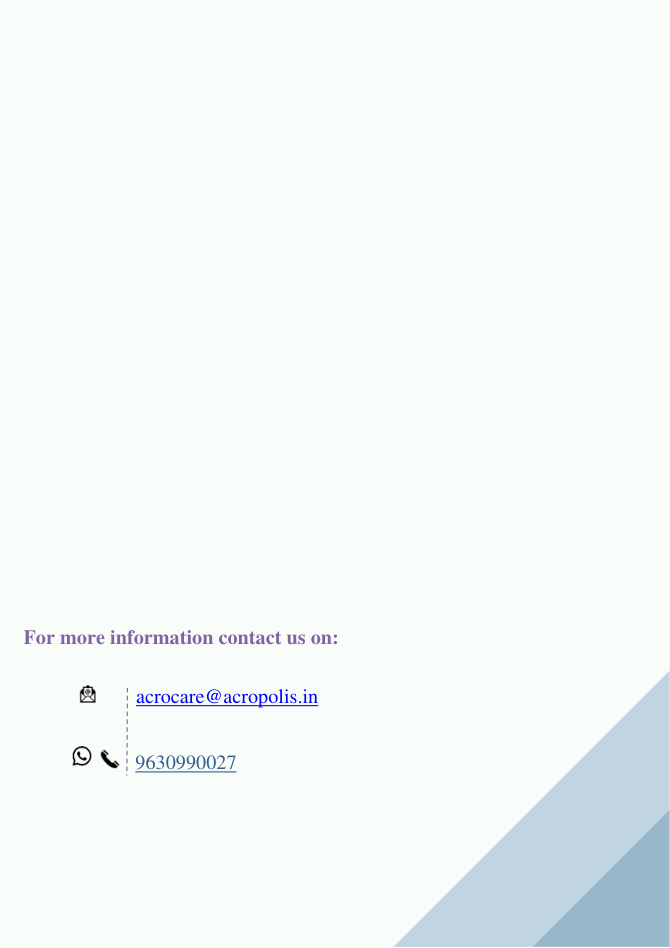
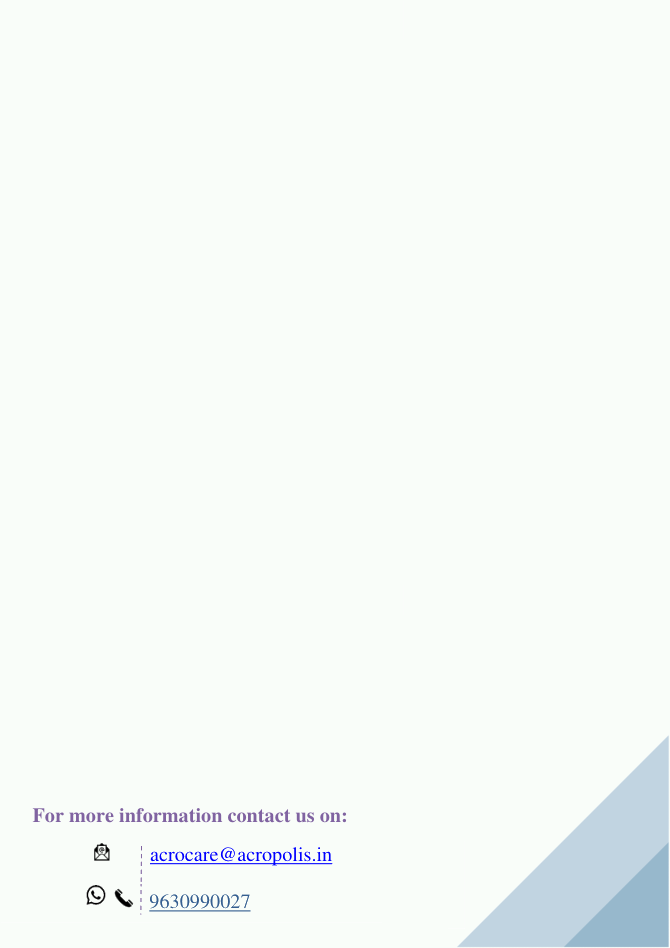
Update pdf layout to fit more recommendations in a page

diff --git a/reportutility.py b/reportutility.py
@@ -297,11 +297,17 @@ def Create_All_Reports(dirpath: str, tscoreslist: list, data: list,
                 pdfile.image(f'{__GRAPHS_DIR}/{graphs[stu]}', 18, 128, h=120)
             # Page 5
             elif i == 5:
+                BREAK_POINT = 220 #245 #165
+                # Y_START     = 25 
+                Y_START     = 35
+                LINK_Y_POS  = BREAK_POINT + 40
+                LINK_X_POS  = 45
+
                 pdfile.set_margins(20, 0, 20)
-                pdfile.set_font_size(__DEF_FSIZE+5)
-                # pdfile.set_font_size(__DEF_FSIZE+3)
+                # pdfile.set_font_size(__DEF_FSIZE+5)
+                pdfile.set_font_size(__DEF_FSIZE+3)
                 # pdfile.set_font_size(__DEF_FSIZE+1)
-                pdfile.set_y(35)
+                pdfile.set_y(Y_START)
                 # for ii, keys in enumerate(problemareas[1:]):
                 for ii, keys in enumerate(problemareas):
                     for j, recommend in enumerate(reco.crpair[keys]):
@@ -311,14 +317,17 @@ def Create_All_Reports(dirpath: str, tscoreslist: list, data: list,
                         # pdfile.write(txt="SAMPLE TEXT SAMPLE TEXT SAMPLETEAKJLDSFLKAJDSF; JADLFKJALKS;JFL;AKJDFLKAJ;FKLAJDSFKL;JADLSF")
 
                         # pdfile.set_x(20)
-                        if (pdfile.get_y() > 165):
-                            pdfile.ln(210)
-                            pdfile.set_x(40)
+                        # if (pdfile.get_y() > 165):
+                        if (pdfile.get_y() > BREAK_POINT):
+                            # pdfile.ln(210)
+                            # pdfile.set_x(40)
                             # pdfile.cell(70, 20, "sample", border=1)
-                            pdfile.link(40, 210, 70, 20, ACROCARE_EMAIL)
+                            
+                            # pdfile.link(40, 210, 70, 20, ACROCARE_EMAIL)
+                            pdfile.link(LINK_X_POS, LINK_Y_POS, 70, 15, ACROCARE_EMAIL)
                             pdfile.add_page()
                             pdfile.image(f'{__IMGDIR}/{TEMPLATE_WITH_CONTACT}', 0, 0, w=__PG_WIDTH)
-                            pdfile.set_y(35)
+                            pdfile.set_y(Y_START)
                         pdfile.set_font(style="B")
                         # pdfile.write(txt="\n" + advice)
                         pdfile.write(txt="\n~ ") 
@@ -342,10 +351,12 @@ def Create_All_Reports(dirpath: str, tscoreslist: list, data: list,
                     f"professional help{' immediately' if len(problemareas) > 0 else ''}.")
                 pdfile.set_font(style="")
                 
-                pdfile.ln(210)
-                pdfile.set_x(40)
+                # pdfile.ln(210)
+                # pdfile.set_x(40)
                 # pdfile.cell(70, 20, "sample", border=1)
-                pdfile.link(40, 210, 70, 20, ACROCARE_EMAIL)
+
+                # pdfile.link(40, 210, 70, 20, ACROCARE_EMAIL)
+                pdfile.link(LINK_X_POS, LINK_Y_POS, 70, 15, ACROCARE_EMAIL)
                 pdfile.set_font_size(__DEF_FSIZE)
 
 
